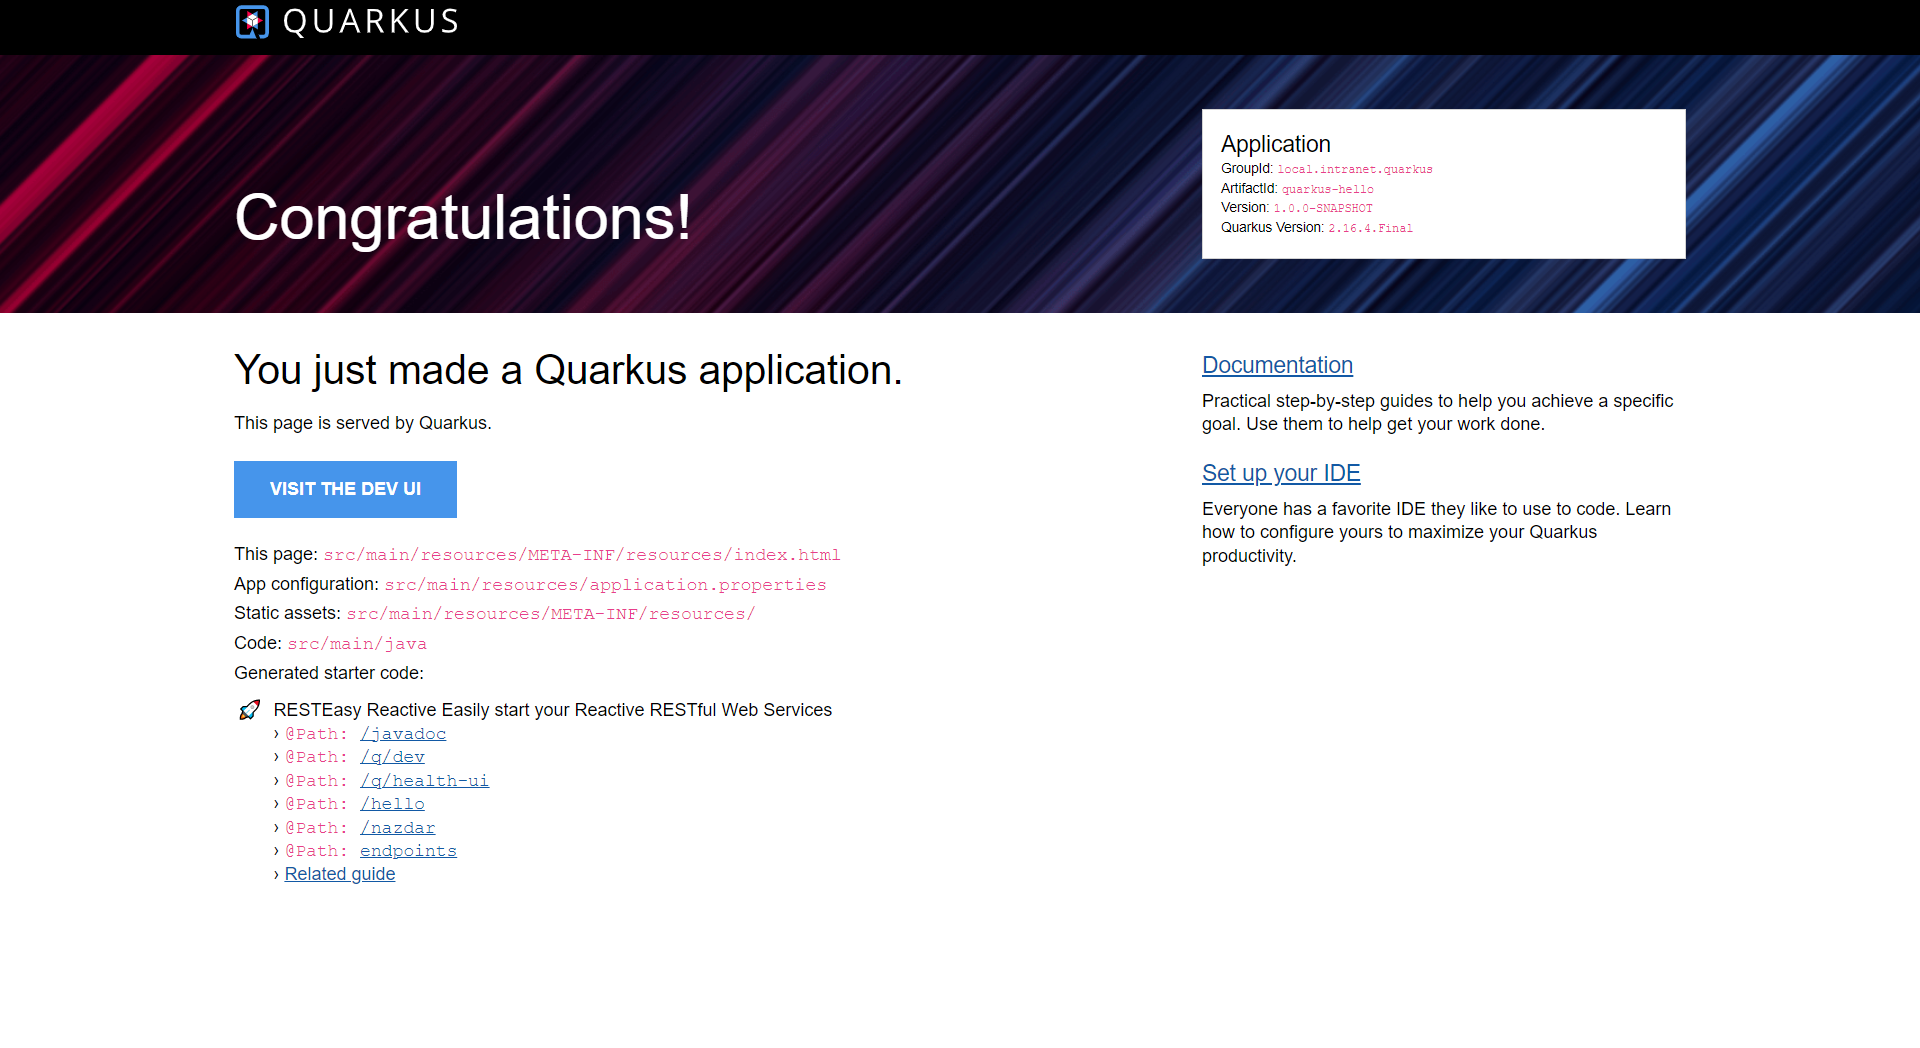
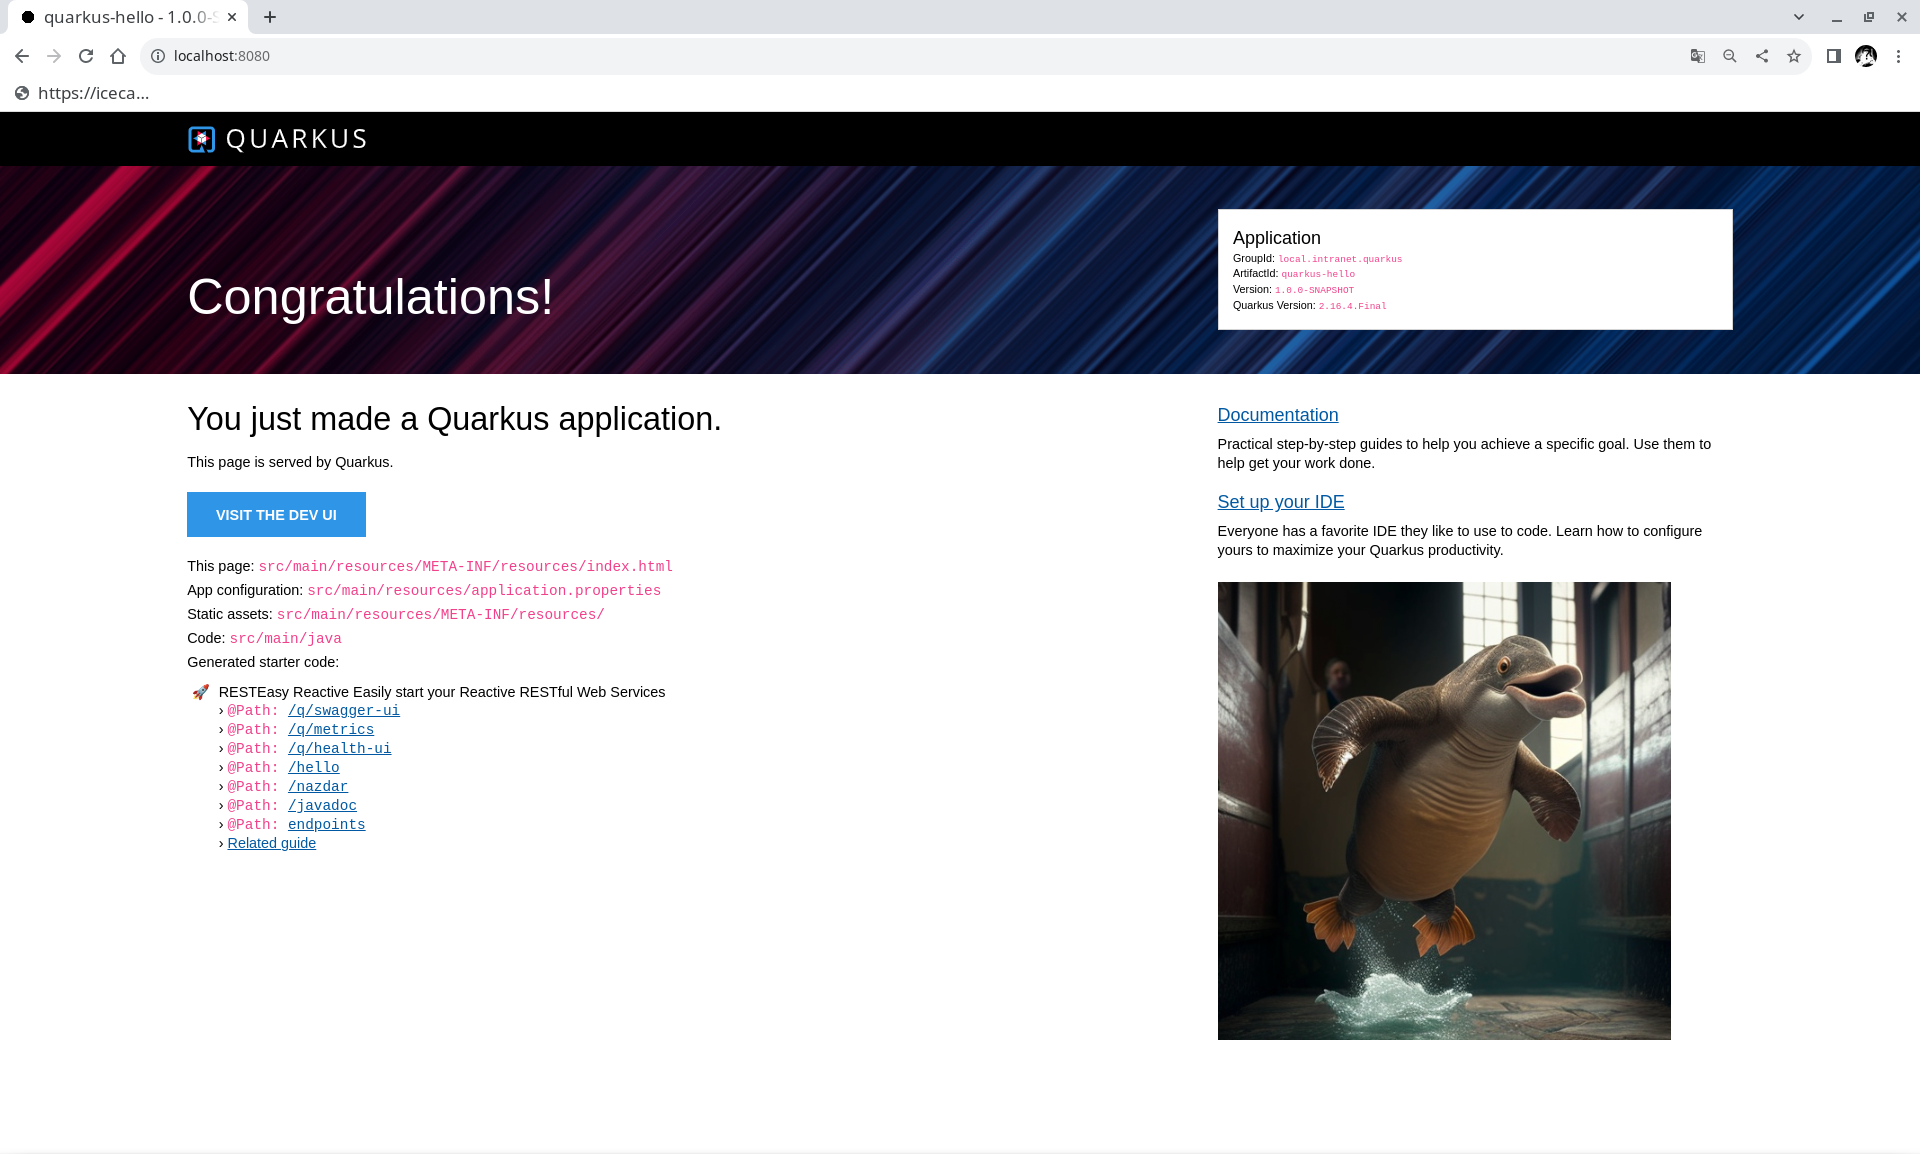
.

diff --git a/src/main/resources/META-INF/resources/index.html b/src/main/resources/META-INF/resources/index.html
@@ -278,6 +278,12 @@
                     <h5><a href="https://quarkus.io/guides/maven-tooling">Set up your IDE</a></h5>
                     <p>Everyone has a favorite IDE they like to use to code. Learn how to configure yours to maximize your
                         Quarkus productivity.</p>
+                    <p>
+						<br/>
+		            	<a href="/javadoc" class="path-link" target="_blank">
+						<img alt="Platypus is surprised by the speed of_quarkus and GraalVM and jumps for joy"
+						src="/Platypus_is_surprised_by_the_speed_of_quarkus_and_GraalVM_and_jumps_for_joy.png"></a>
+					</p>
                 </div>
             </div>
         </div>

diff --git a/src/main/java/local/intranet/quarkus/api/controller/InfoController.java b/src/main/java/local/intranet/quarkus/api/controller/InfoController.java
@@ -84,7 +84,7 @@ public class InfoController extends PlatypusCounter implements Countable, Invoca
 	public List<LevelCount> loggingEventInfo() {
 		final List<LevelCount> ret = loggingEventService.countTotalLoggingEvents();
 		incrementCounter();
-		LOG.debug("LoggingEventInfo serviceName:{} size:{}", LoggingEventService.class.getSimpleName(), ret.size());
+		LOG.debug("serviceName:{} size:{}", LoggingEventService.class.getSimpleName(), ret.size());
 		return ret;
 	}
 
@@ -111,7 +111,7 @@ public class InfoController extends PlatypusCounter implements Countable, Invoca
 	public RoleInfo roleInfo() {
 		final RoleInfo ret = roleService.getRoleInfo();
 		incrementCounter();
-		LOG.debug("RoleInfo roleName:{} size:{}", ret.getName(), ret.getRoles().size());
+		LOG.debug("roleName:{} size:{}", ret.getName(), ret.getRoles().size());
 		return ret;
 	}
 
@@ -138,7 +138,7 @@ public class InfoController extends PlatypusCounter implements Countable, Invoca
 	public UserInfo userInfo() {
 		final UserInfo ret = userService.getUserInfo("admin");
 		incrementCounter();
-		LOG.debug("UserInfo userName:{} nonExpired:{} nonLocked:{} enabled:{} ", ret.getUsername(), ret.isAccountNonExpired(),
+		LOG.debug("userName:{} nonExpired:{} nonLocked:{} enabled:{} ", ret.getUsername(), ret.isAccountNonExpired(),
 				ret.isAccountNonLocked(), ret.isEnabled());
 		return ret;
 	}

diff --git a/src/main/java/local/intranet/quarkus/api/service/LoggingEventService.java b/src/main/java/local/intranet/quarkus/api/service/LoggingEventService.java
@@ -54,7 +54,7 @@ public class LoggingEventService {
 		for (Object[] o : loggingEventRepository.countTotalLoggingEvents()) {
 			ret.add(new LevelCount((String) o[0], (Long) o[1]));
 		}
-		LOG.trace("CountTotalLoggingEvents {}", ret);
+		LOG.trace("{}", ret);
 		return ret;
 	}
 
@@ -79,7 +79,7 @@ public class LoggingEventService {
 				list.add(makeLoggingEventInfo(l));
 			}
 			Page<LoggingEventInfo> ret = new PageImpl<>(list, pageable, pa.getTotalElements());
-			LOG.trace("FindPageByLevelString {}", ret);
+			LOG.trace("{}", ret);
 			return ret;
 		} catch (Exception e) {
 			LOG.error(e.getMessage(), e);
@@ -106,7 +106,7 @@ public class LoggingEventService {
 				arg0, arg1, arg2, arg3,
 				ZonedDateTime.ofInstant(Instant.ofEpochMilli(loggingEvent.getTimestmp()), ZoneId.systemDefault()));
 
-		LOG.trace("MakeLoggingEventInfo {}", ret);
+		LOG.trace("{}", ret);
 		return ret;
 	}
 

diff --git a/src/main/java/local/intranet/quarkus/api/controller/StatusController.java b/src/main/java/local/intranet/quarkus/api/controller/StatusController.java
@@ -113,7 +113,7 @@ public class StatusController extends PlatypusCounter implements Countable, Invo
 			}
 		}
 		incrementCounter();
-		LOG.trace("PlatypusEnvironment {}", ret);
+		LOG.trace("{}", ret);
 		return ret;
 	}
 
@@ -143,7 +143,7 @@ public class StatusController extends PlatypusCounter implements Countable, Invo
 		ret.add(Map.entry("processors", system.getAvailableProcessors()));
 		ret.add(Map.entry("version", system.getVersion()));
 		incrementCounter();
-		LOG.trace("GetOperatingSystem {}", ret);
+		LOG.trace("{}", ret);
 		return ret;
 	}
 
@@ -156,7 +156,7 @@ public class StatusController extends PlatypusCounter implements Countable, Invo
 	public String timeZone() {
 		final String ret = ZoneId.systemDefault().getId();
 		incrementCounter();
-		LOG.trace("TimeZone {}", ret);
+		LOG.trace("{}", ret);
 		return ret;
 	}
 

diff --git a/src/main/java/local/intranet/quarkus/api/controller/IndexController.java b/src/main/java/local/intranet/quarkus/api/controller/IndexController.java
@@ -75,7 +75,7 @@ public class IndexController extends PlatypusCounter implements Countable, Invoc
 			+ "target=\"_blank\">IndexController.hello</a>")
 	public Message hello() {
 		incrementCounter();
-		LOG.debug("Hello {}", HELLO);
+		LOG.debug("{}", HELLO);
 		return new Message(HELLO);
 	}
 
@@ -99,7 +99,7 @@ public class IndexController extends PlatypusCounter implements Countable, Invoc
 			+ "target=\"_blank\">IndexController.nazdar</a>")
 	public Message nazdar() {
 		incrementCounter();
-		LOG.debug("Nazdar {}", NAZDAR);
+		LOG.debug("{}", NAZDAR);
 		return new Message(NAZDAR);
 	}
 

diff --git a/src/main/java/local/intranet/quarkus/api/controller/DownloadController.java b/src/main/java/local/intranet/quarkus/api/controller/DownloadController.java
@@ -69,7 +69,7 @@ public class DownloadController extends PlatypusCounter implements Countable, In
 	public Uni<Response> getFile(@PathParam(value = "\\w[\\w\\.-]*") String fileName) throws NotFoundException {
 		try {
 			final File nf = new File(fileName);
-			LOG.info("GetFile file:'{}'", nf.exists());
+			LOG.info("file:'{}'", nf.exists());
 			final ResponseBuilder response = Response.ok((Object) nf);
 			response.header(CONTENT_DISPOSITION, ATTACHMENT_FILENAME + nf);
 			final Uni<Response> ret = Uni.createFrom().item(response.build());

diff --git a/src/main/java/local/intranet/quarkus/api/service/UserService.java b/src/main/java/local/intranet/quarkus/api/service/UserService.java
@@ -44,7 +44,7 @@ public class UserService {
 	public UserInfo getUserInfo(@NotNull String username)
 			throws ValidationException, UnauthorizedException, ForbiddenException {
 		final UserInfo ret = loadUserByUsername(username);
-		LOG.trace("GetUserInfo username:{} password:{} enabled:{}", ret.getUsername(), ret.getPassword(),
+		LOG.trace("username:{} password:{} enabled:{}", ret.getUsername(), ret.getPassword(),
 				ret.isEnabled());
 		return ret;
 	}

diff --git a/src/main/java/local/intranet/quarkus/api/service/CounterService.java b/src/main/java/local/intranet/quarkus/api/service/CounterService.java
@@ -62,7 +62,7 @@ public class CounterService {
 			} else {
 				ret = new CounterInfo(counter.getId(), counterName, counter.getCnt(), counter.getTimestmp(),
 						counter.getStatus());
-				LOG.trace("GetCounterInfo name:{} cnt:{}", counter.getCounterName(), counter.getCnt());
+				LOG.trace("name:{} cnt:{}", counter.getCounterName(), counter.getCnt());
 			}
 		} catch (Exception e) {
 			LOG.error(e.getMessage(), e);

diff --git a/src/main/java/local/intranet/quarkus/api/info/content/Provider.java b/src/main/java/local/intranet/quarkus/api/info/content/Provider.java
@@ -69,7 +69,7 @@ public class Provider {
 		AuditReader ret = AuditReaderFactory.get(entityManager);
 		if (!((AuditReaderImpl) ret).getSession().isOpen()) {
 			ret = AuditReaderFactory.get(entityManagerFactory.createEntityManager());
-			LOG.warn("AuditReader create EntityManager!");
+			LOG.warn("create EntityManager!");
 		}
 		return ret;
 	}

diff --git a/src/main/java/local/intranet/quarkus/api/service/RoleService.java b/src/main/java/local/intranet/quarkus/api/service/RoleService.java
@@ -55,7 +55,7 @@ public class RoleService {
 			ret.add(new RolePlain(r.getId(), r.getRoleName(), r.isEnabled(),
 					r.getUser().stream().map(u -> u.getUserName()).collect(Collectors.toList())));
 		});
-		LOG.trace("GetUserRoles size:{}", ret.size());
+		LOG.trace("size:{}", ret.size());
 		return ret;
 	}
 
